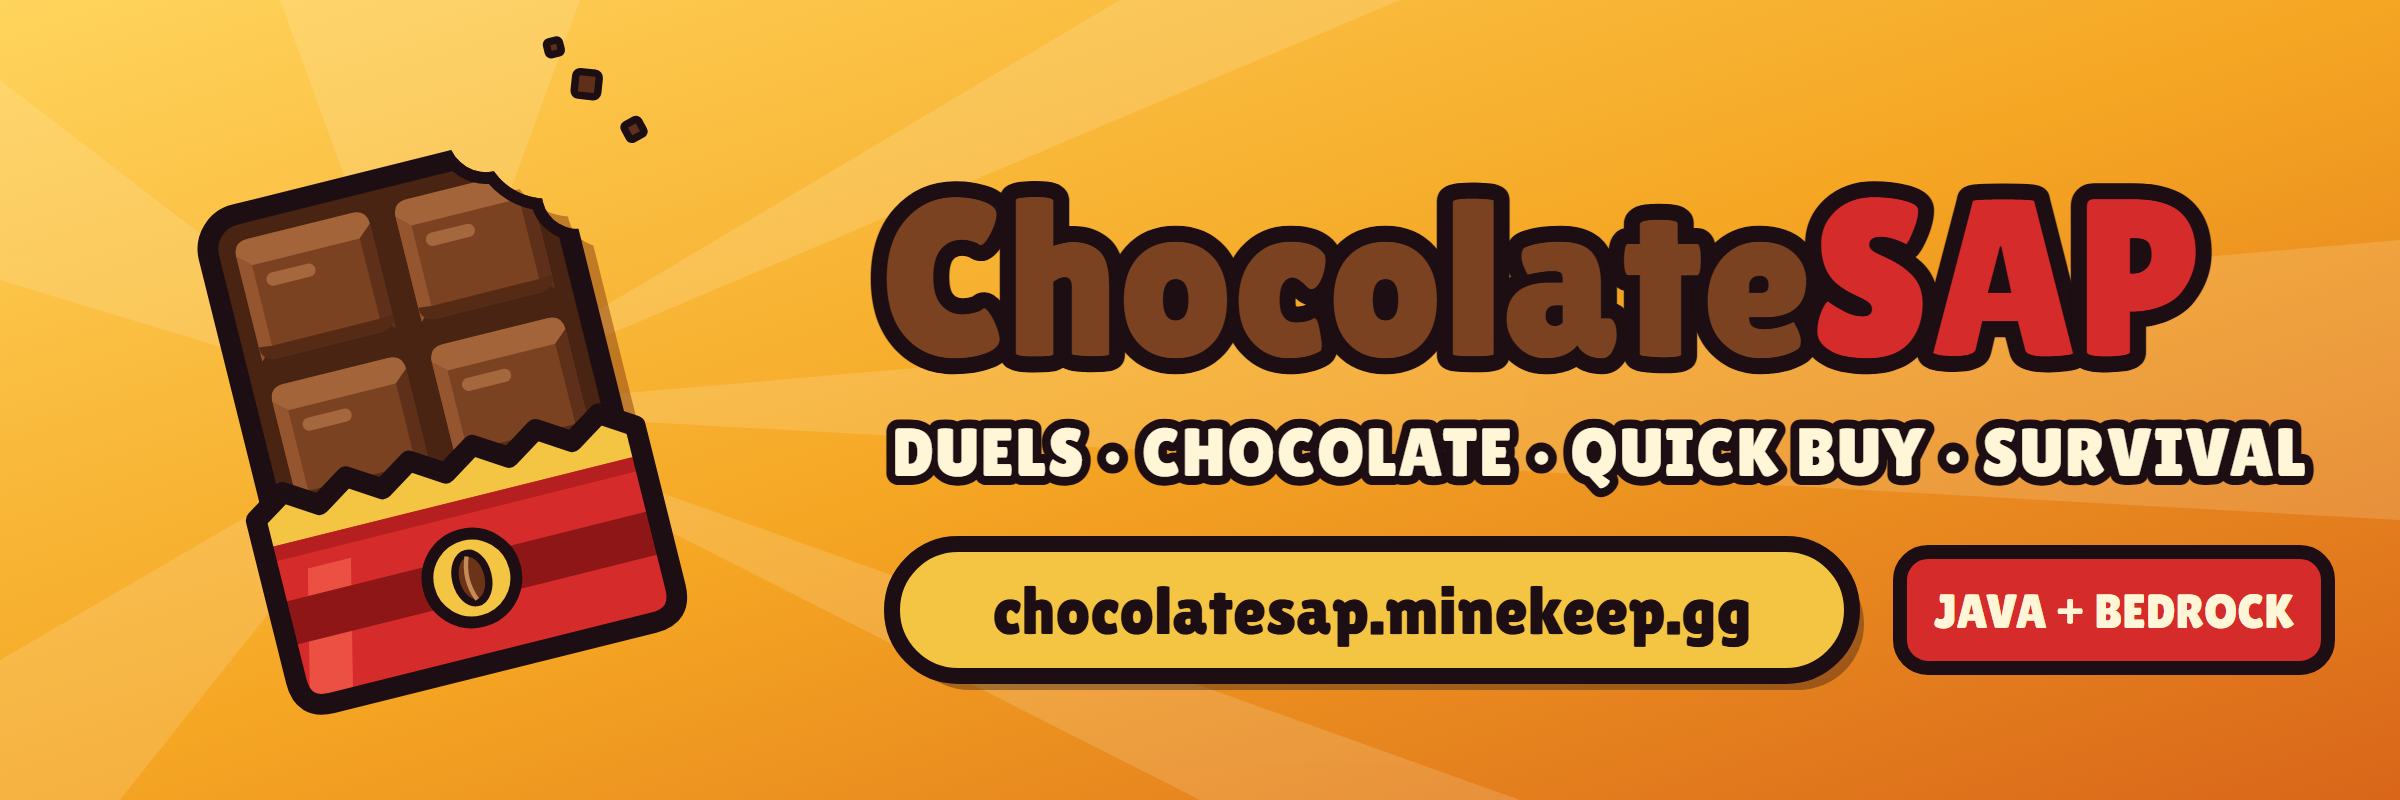
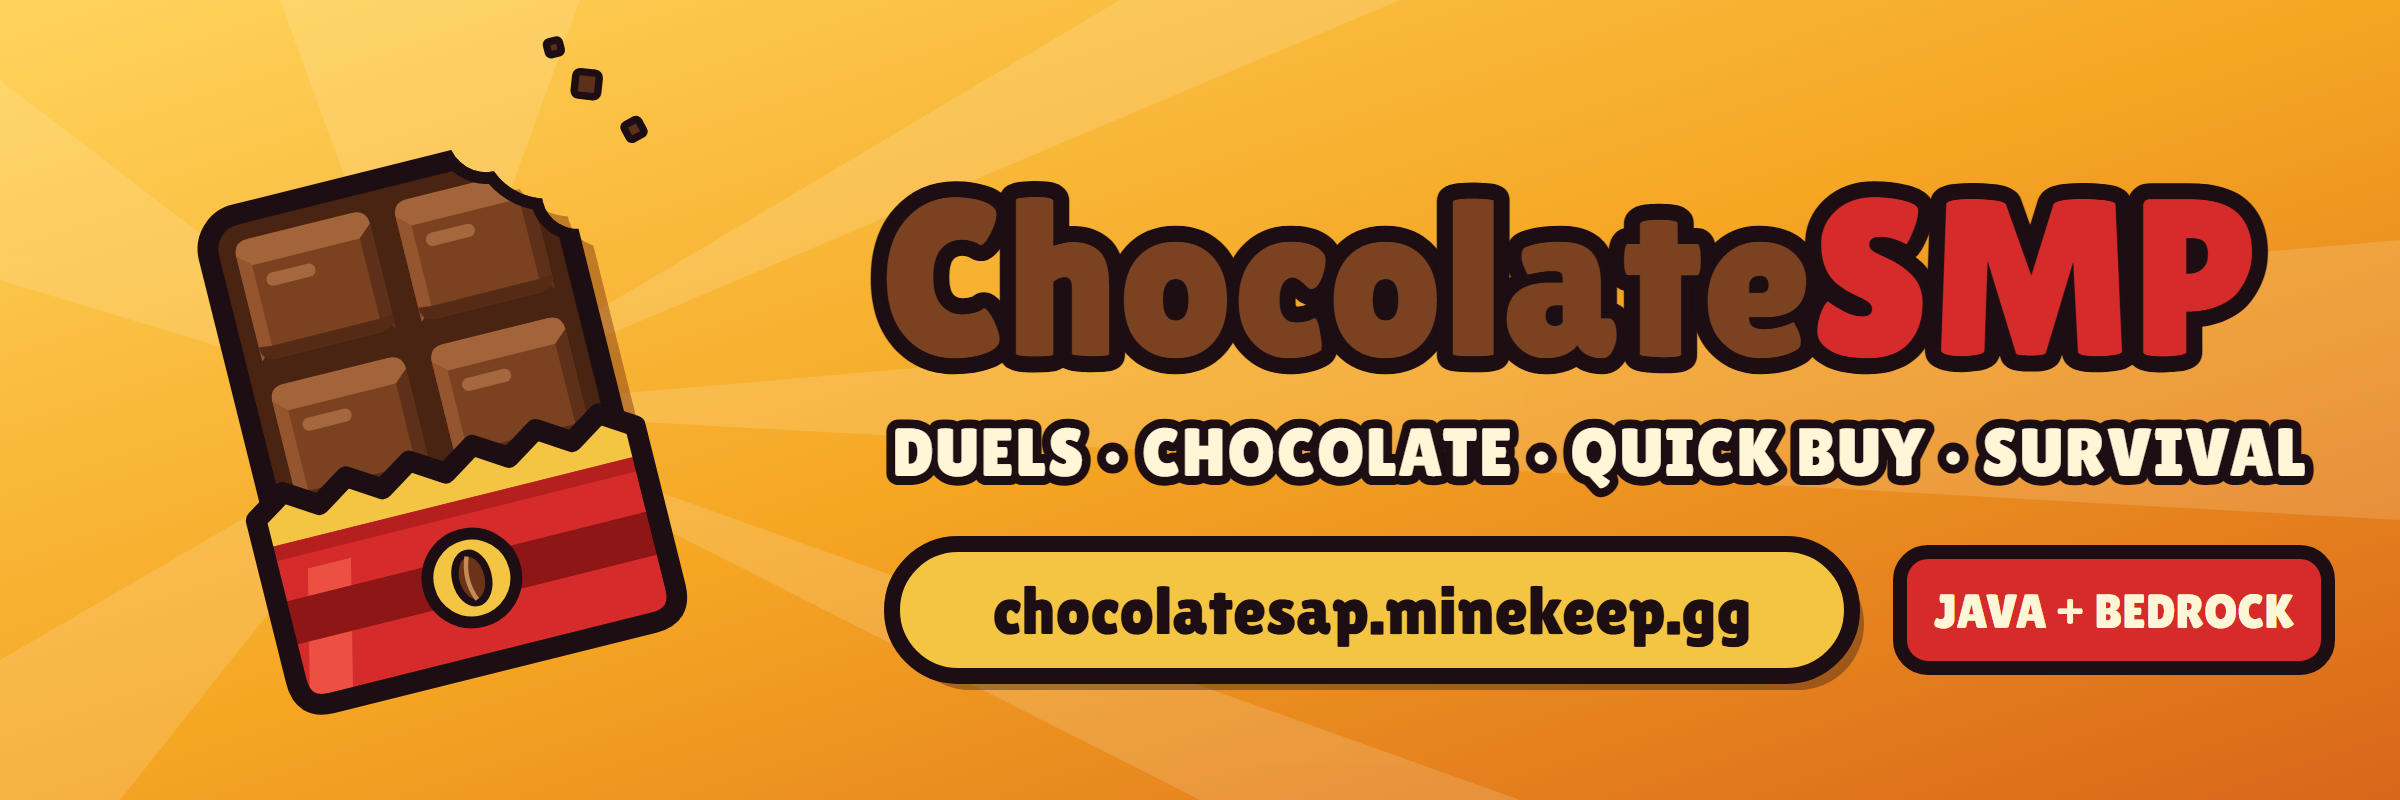
Rename to ChocolateSMP

Changed region(s): [[0.7812, 0.2188, 0.9688, 0.4688]]

diff --git a/index.html b/index.html
@@ -4,8 +4,8 @@
 <meta charset="utf-8">
 <meta name="viewport" content="width=device-width, initial-scale=1, viewport-fit=cover">
 <link rel="icon" type="image/png" href="icon.png">
-<meta name="description" content="Player guide for the ChocolateSAP Minecraft server: joining, commands, chocolates, Quick Buy, duels and ranks.">
-<title>ChocolateSAP Wiki</title>
+<meta name="description" content="Player guide for the ChocolateSMP Minecraft server: joining, commands, chocolates, Quick Buy, duels and ranks.">
+<title>ChocolateSMP Wiki</title>
 <link rel="preconnect" href="https://fonts.googleapis.com">
 <link rel="stylesheet" href="https://fonts.googleapis.com/css2?family=Lilita+One&family=Nunito+Sans:opsz,wght@6..12,400;6..12,600;6..12,800&family=JetBrains+Mono:wght@500&display=swap">
 <style>
@@ -200,7 +200,7 @@
 </svg>
 
     <div>
-      <h1>Chocolate<span class="sap">SAP</span></h1>
+      <h1>Chocolate<span class="sap">SMP</span></h1>
       <p>Survival, 1v1 duels and a chocolate economy. Everything you need to know to play.</p>
       <div class="ipbox">
         <span class="iplabel">Java</span>
@@ -259,7 +259,7 @@
       <h2>First steps</h2>
       <ol class="steps">
         <li>You start in the <b>lobby</b>. You come back here when you join and when you respawn.</li>
-        <li>Press <b>Escape</b> on Java and click <b>ChocolateSAP Menu</b>, or type <code>/menu</code> (on Bedrock too). It has a shortcut to everything.</li>
+        <li>Press <b>Escape</b> on Java and click <b>ChocolateSMP Menu</b>, or type <code>/menu</code> (on Bedrock too). It has a shortcut to everything.</li>
         <li>Type <code>/rtp</code> to go somewhere random in the survival world and start playing.</li>
         <li>Set a home with <code>/home</code> so you can get back to your base. Everyone gets <b>5 homes</b>.</li>
         <li>Check the sidebar on the right: it shows your money, chocolates and XP level.</li>
@@ -371,7 +371,7 @@
   </article>
 </div>
 
-<footer class="wrap">ChocolateSAP · chocolatesap.minekeep.gg</footer>
+<footer class="wrap">ChocolateSMP · chocolatesap.minekeep.gg</footer>
 
 <script>
   document.querySelectorAll('button.copy').forEach(function (btn) {

diff --git a/store/index.html b/store/index.html
@@ -3,8 +3,8 @@
 <head>
 <meta charset="utf-8">
 <meta name="viewport" content="width=device-width, initial-scale=1, viewport-fit=cover">
-<title>ChocolateSAP Store</title>
-<meta name="description" content="Ranks for the ChocolateSAP Minecraft server. Cosmetic perks, paid securely through Tebex.">
+<title>ChocolateSMP Store</title>
+<meta name="description" content="Ranks for the ChocolateSMP Minecraft server. Cosmetic perks, paid securely through Tebex.">
 <link rel="icon" type="image/png" href="../icon.png">
 <link rel="preconnect" href="https://fonts.googleapis.com">
 <link rel="stylesheet" href="https://fonts.googleapis.com/css2?family=Lilita+One&family=Nunito+Sans:opsz,wght@6..12,400;6..12,600;6..12,800&display=swap">
@@ -111,7 +111,7 @@
     <div class="brand">
       <img src="../icon.png" alt="">
       <div>
-        <h1>Chocolate<span class="sap">SAP</span> Store</h1>
+        <h1>Chocolate<span class="sap">SMP</span> Store</h1>
         <p>Ranks for chocolatesap.minekeep.gg</p>
       </div>
     </div>
@@ -174,7 +174,7 @@
     Payment happens on Tebex's secure checkout page (PayPal, cards and more), and the rank is given in-game automatically within a few minutes.</p>
 </main>
 
-<footer class="wrap">ChocolateSAP is not affiliated with Mojang or Microsoft. Payments are processed by Tebex.</footer>
+<footer class="wrap">ChocolateSMP is not affiliated with Mojang or Microsoft. Payments are processed by Tebex.</footer>
 
 <div class="sheet" id="sheet" hidden>
   <div class="card" role="dialog" aria-modal="true" aria-labelledby="sheetTitle">

diff --git a/store/config.js b/store/config.js
@@ -1,4 +1,4 @@
-// ChocolateSAP store settings.
+// ChocolateSMP store settings.
 //
 // token: your Tebex PUBLIC token (creator.tebex.io > Developers > API Keys > "Public Token",
 //        it starts with 4 letters and a dash, e.g. "abcd-1234..."). It is safe to put here.

diff --git a/README.md b/README.md
@@ -1,5 +1,5 @@
-# ChocolateSAP Wiki
+# ChocolateSMP Wiki
 
-Player guide for the ChocolateSAP Minecraft server (`chocolatesap.minekeep.gg`).
+Player guide for the ChocolateSMP Minecraft server (`chocolatesap.minekeep.gg`).
 
 Live page: https://nirgolsha887.github.io/chocolatesap-wiki/
